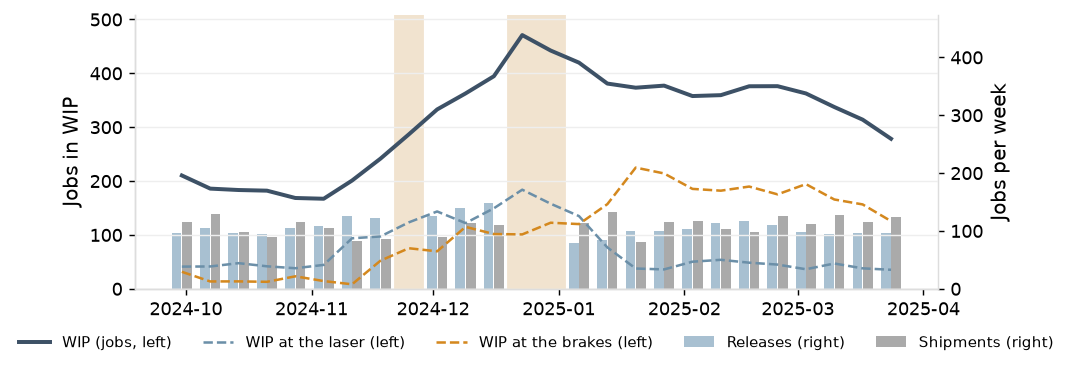
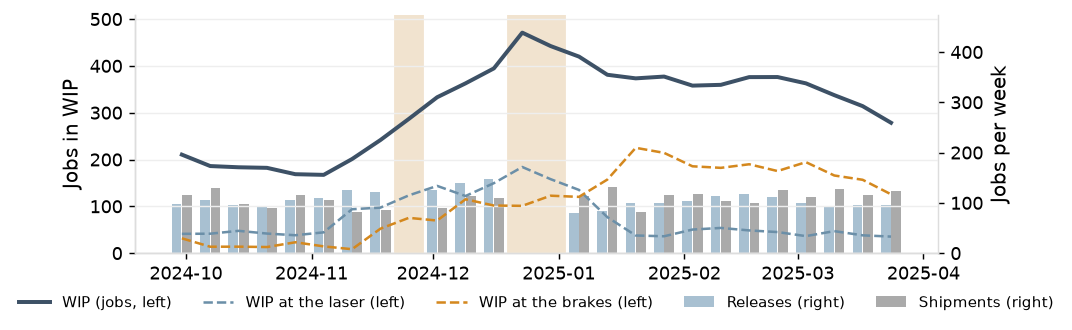
P1 lead time: recommendations aligned with the P5 findings

diff --git a/docs/a3/p1_lead_time.html b/docs/a3/p1_lead_time.html
@@ -54,7 +54,7 @@ nav.toc a { color: var(--accent); text-decoration: none; margin-right: 14px; }
 <div class="grid"><div><section><h2>Background and problem</h2><p>The fixed quote of 10, 15 or 20 working days is met on 58% of jobs (74% in Q2 to Q4); 76.6% ship by the promised date (90.1% in Q2 to Q4) against the 95% key accounts require.<br>The 90th-percentile lead time is 25.2 days (18.2 in Q2 to Q4) against a median of 11.2 (9.2).</p></section>
 <section><h2>Current condition</h2><img alt="Lead time by stage, on-time and late jobs" src="../figures/p1_a3_stage_decomposition.png"><div class='caption'>Mean working days per job at each stage, on-time against late jobs, 2025 and Q2 to Q4.</div></section>
 <section><h2>Target</h2><p>95% of jobs shipped by the promised date in every quarter, the first quarter included.</p></section></div><div><section><h2>Analysis</h2><img alt="Weekly WIP, releases and shipments, October 2024 to March 2025" src="../figures/p1_a3_year_end_build.png"><div class='caption'>Weekly WIP, releases and shipments, October 2024 to March 2025; shaded weeks have fewer than five working days.</div><ul><li>For the year the brake queue separates late from on-time jobs (6.98 against 2.71 days). In Q2 to Q4 it does not (1.81 against 1.96); late jobs there differ in material wait at the first operation, outside processing, the robotic weld queue and setup and run.</li><li>The brakes hold 56% of queue time for the year and 40% in Q2 to Q4; the 90th-percentile brake queue is 11.3 days and 4.8.</li><li>Floor WIP is 253 jobs against 245 at the quoted lead times for the year and 209 against 250 in Q2 to Q4: the gap between quote and delivery is dispersion, not level.</li><li>The 2024 year-end build: 26% more brake standard hours released than in the third quarter, the lasers at 0.98, 0.95 and 0.93 for three weeks from November 11, WIP at 471 on December 23, and a first quarter of 2025 at 40.8% on time with 847 of the year's 1,226 late jobs.</li></ul></section>
-<section><h2>Countermeasures</h2><table class="data"><thead><tr><th>Action</th><th>Owner</th><th>When</th></tr></thead><tbody><tr><td class="">Attribute each late job to a cause and replace the late-reason code with a buffer status record (P2)</td><td class="">Production control manager</td><td class="">February 2026</td></tr><tr><td class="">Size a fourth-quarter release and overtime plan on the shop model, and test a WIP cap and due-date dispatch (P5)</td><td class="">Plant manager</td><td class="">April 2026</td></tr><tr><td class="">Restate quoted lead times as a percentile of measured lead time by routing class and brake load (P7)</td><td class="">Estimating and customer service manager</td><td class="">May 2026</td></tr></tbody></table></section>
+<section><h2>Countermeasures</h2><table class="data"><thead><tr><th>Action</th><th>Owner</th><th>When</th></tr></thead><tbody><tr><td class="">Attribute each late job to a cause and replace the late-reason code with a buffer status record (P2)</td><td class="">Production control manager</td><td class="">February 2026</td></tr><tr><td class="">Plan the fourth-quarter peak on the shop model: planned Saturday brake shifts and the setup program (P5); a WIP cap and due-date dispatch lower on-time delivery (P5)</td><td class="">Plant manager</td><td class="">April 2026</td></tr><tr><td class="">Restate quoted lead times as a percentile of measured lead time by routing class and brake load (P7)</td><td class="">Estimating and customer service manager</td><td class="">May 2026</td></tr></tbody></table></section>
 <section><h2>Results</h2><p>Measured baseline for 2025: on-time delivery 76.6% (90.1% in Q2 to Q4); quote met on 58% (74%); 90th-percentile lead time 25.2 days (18.2). Results of the countermeasures are reported in P2, P5 and P7.</p></section>
 <section><h2>Follow-up</h2><p>Weekly: WIP by location, brake queue per operation, and material wait at the first operation. P6 evaluates these as leading measures of on-time delivery.</p></section></div></div>
 </div></body></html>

diff --git a/docs/reports/p1_lead_time.html b/docs/reports/p1_lead_time.html
@@ -59,7 +59,7 @@ nav.toc a { color: var(--accent); text-decoration: none; margin-right: 14px; }
 <img alt="Weekly WIP, releases and shipments, October 2024 to March 2025" src="../figures/p1_year_end_build.png">
 <div class='caption'>Figure 5. Weekly WIP, releases and shipments, October 2024 to March 2025; shaded weeks have fewer than five working days.</div>
 <h2 id='rec'>Recommendation</h2>
-<p>Restate the fixed quote as a percentile of the measured lead-time distribution by routing class (P7): the 10-day repeat quote is met on 69% of jobs in an ordinary quarter. Plan the fourth-quarter peak with a release and overtime plan sized from P5; the 2024 build put 847 jobs late in the first quarter of 2025. Take ordinary-quarter lateness to P2, where material, vendor and robotic weld causes are attributed job by job.</p>
+<p>Restate the fixed quote as a percentile of the measured lead-time distribution by routing class (P7): the 10-day repeat quote is met on 69% of jobs in an ordinary quarter. Plan the fourth-quarter peak with planned Saturday brake shifts from November through February and the setup program, sized on the shop model (P5); the 2024 build put 847 jobs late in the first quarter of 2025. Take ordinary-quarter lateness to P2, where material, vendor and robotic weld causes are attributed job by job.</p>
 <h2 id='method'>Method and data</h2>
 <p>Coverage: 5,245 jobs shipped in 2025, 3,815 in Q2 to Q4. Durations are in working days; a scheduled Saturday counts as one. Lead time runs from the release date at 10:00 to the ship date at 15:00; days in WIP counts whole days from the release day to the day before shipment and is 0.21 days shorter on every job.<br>Stages: release to traveler print; first-operation queue (print to first cut, less material wait); material wait at the first operation (a recorded material hold, or a job-specific receipt after the print); queue (arrival at the work center to first start, operations after the first, less the powder scheduling wait to the next day of the color); setup and run (first start to last end of the operation); move (end of one operation to arrival at the next, less recorded holds, so holds not entered remain in it); holds (recorded holds only); outside processing (purchase order to receipt, with the wait before it); complete to ship.<br>Clock-offs closed automatically at shift end take the median hours of operator-closed transactions of the same work center and type. A new-part job is the first order against a new-part quote line within 60 days of the quote decision.<br>WIP is jobs released and not shipped, sampled every working day; throughput is jobs shipped per working day; the quarterly balance uses days in WIP of the jobs shipped in the quarter, including days before the quarter. Monthly, 17 of 36 periods are within 10%; rolling 13 weeks, 108 of 141.</p>
 <h2 id='appendix'>Appendix</h2>

diff --git a/analytics/p1_lead_time/build.py b/analytics/p1_lead_time/build.py
@@ -353,7 +353,7 @@ def report():
 
     b.append("<h2 id='rec'>Recommendation</h2>")
     b.append(f"<p>Restate the fixed quote as a percentile of the measured lead-time distribution by routing class (P7): the 10-day repeat quote is met on "
-             f"{hit['repeat part'][1]} of jobs in an ordinary quarter. Plan the fourth-quarter peak with a release and overtime plan sized from P5; "
+             f"{hit['repeat part'][1]} of jobs in an ordinary quarter. Plan the fourth-quarter peak with planned Saturday brake shifts from November through February and the setup program, sized on the shop model (P5); "
              f"the 2024 build put {n0(q1['late_jobs'])} jobs late in the first quarter of {YEAR}. Take ordinary-quarter lateness to P2, where material, vendor and "
              f"robotic weld causes are attributed job by job.</p>")
 
@@ -393,7 +393,8 @@ def report():
 # ── A3 ──────────────────────────────────────────────────────────────────────
 COUNTERMEASURES = [
     ("Attribute each late job to a cause and replace the late-reason code with a buffer status record (P2)", "Production control manager", "February 2026"),
-    ("Size a fourth-quarter release and overtime plan on the shop model, and test a WIP cap and due-date dispatch (P5)", "Plant manager", "April 2026"),
+    ("Plan the fourth-quarter peak on the shop model: planned Saturday brake shifts and the setup program (P5); a WIP cap and due-date dispatch lower on-time "
+     "delivery (P5)", "Plant manager", "April 2026"),
     ("Restate quoted lead times as a percentile of measured lead time by routing class and brake load (P7)", "Estimating and customer service manager", "May 2026"),
 ]
 
@@ -406,12 +407,12 @@ def a3():
                 f"({pct(ra['share_within_quoted'], 0)} in {REST}); {pct(ya['on_time_delivery'])} ship by the promised date ({pct(ra['on_time_delivery'])} in {REST}) "
                 f"against the {pct(required, 0)} key accounts require.<br>The 90th-percentile lead time is {d1(ya['lead_time_p90'])} days ({d1(ra['lead_time_p90'])} in "
                 f"{REST}) against a median of {d1(ya['lead_time_median'])} ({d1(ra['lead_time_median'])}).</p></section>")
-    left.append(f"<section><h2>Current condition</h2>{fig_stages('p1_a3_stage_decomposition', 1, 4.6)}"
+    left.append(f"<section><h2>Current condition</h2>{fig_stages('p1_a3_stage_decomposition', 1, 4.3)}"
                 f"<div class='caption'>Mean working days per job at each stage, on-time against late jobs, {YEAR} and {REST}.</div></section>")
     left.append(f"<section><h2>Target</h2><p>{pct(required, 0)} of jobs shipped by the promised date in every quarter, the first quarter included.</p></section>")
     right = []
     right.append(
-        f"<section><h2>Analysis</h2>{fig_build('p1_a3_year_end_build', 1, 3.0)}"
+        f"<section><h2>Analysis</h2>{fig_build('p1_a3_year_end_build', 1, 2.7)}"
         f"<div class='caption'>Weekly WIP, releases and shipments, October 2024 to March 2025; shaded weeks have fewer than five working days.</div><ul>"
         f"<li>For the year the brake queue separates late from on-time jobs ({d2(st(SY, 'queue: press brake', 'late'))} against "
         f"{d2(st(SY, 'queue: press brake', 'on time'))} days). In {REST} it does not ({d2(st(SR, 'queue: press brake', 'late'))} against "
